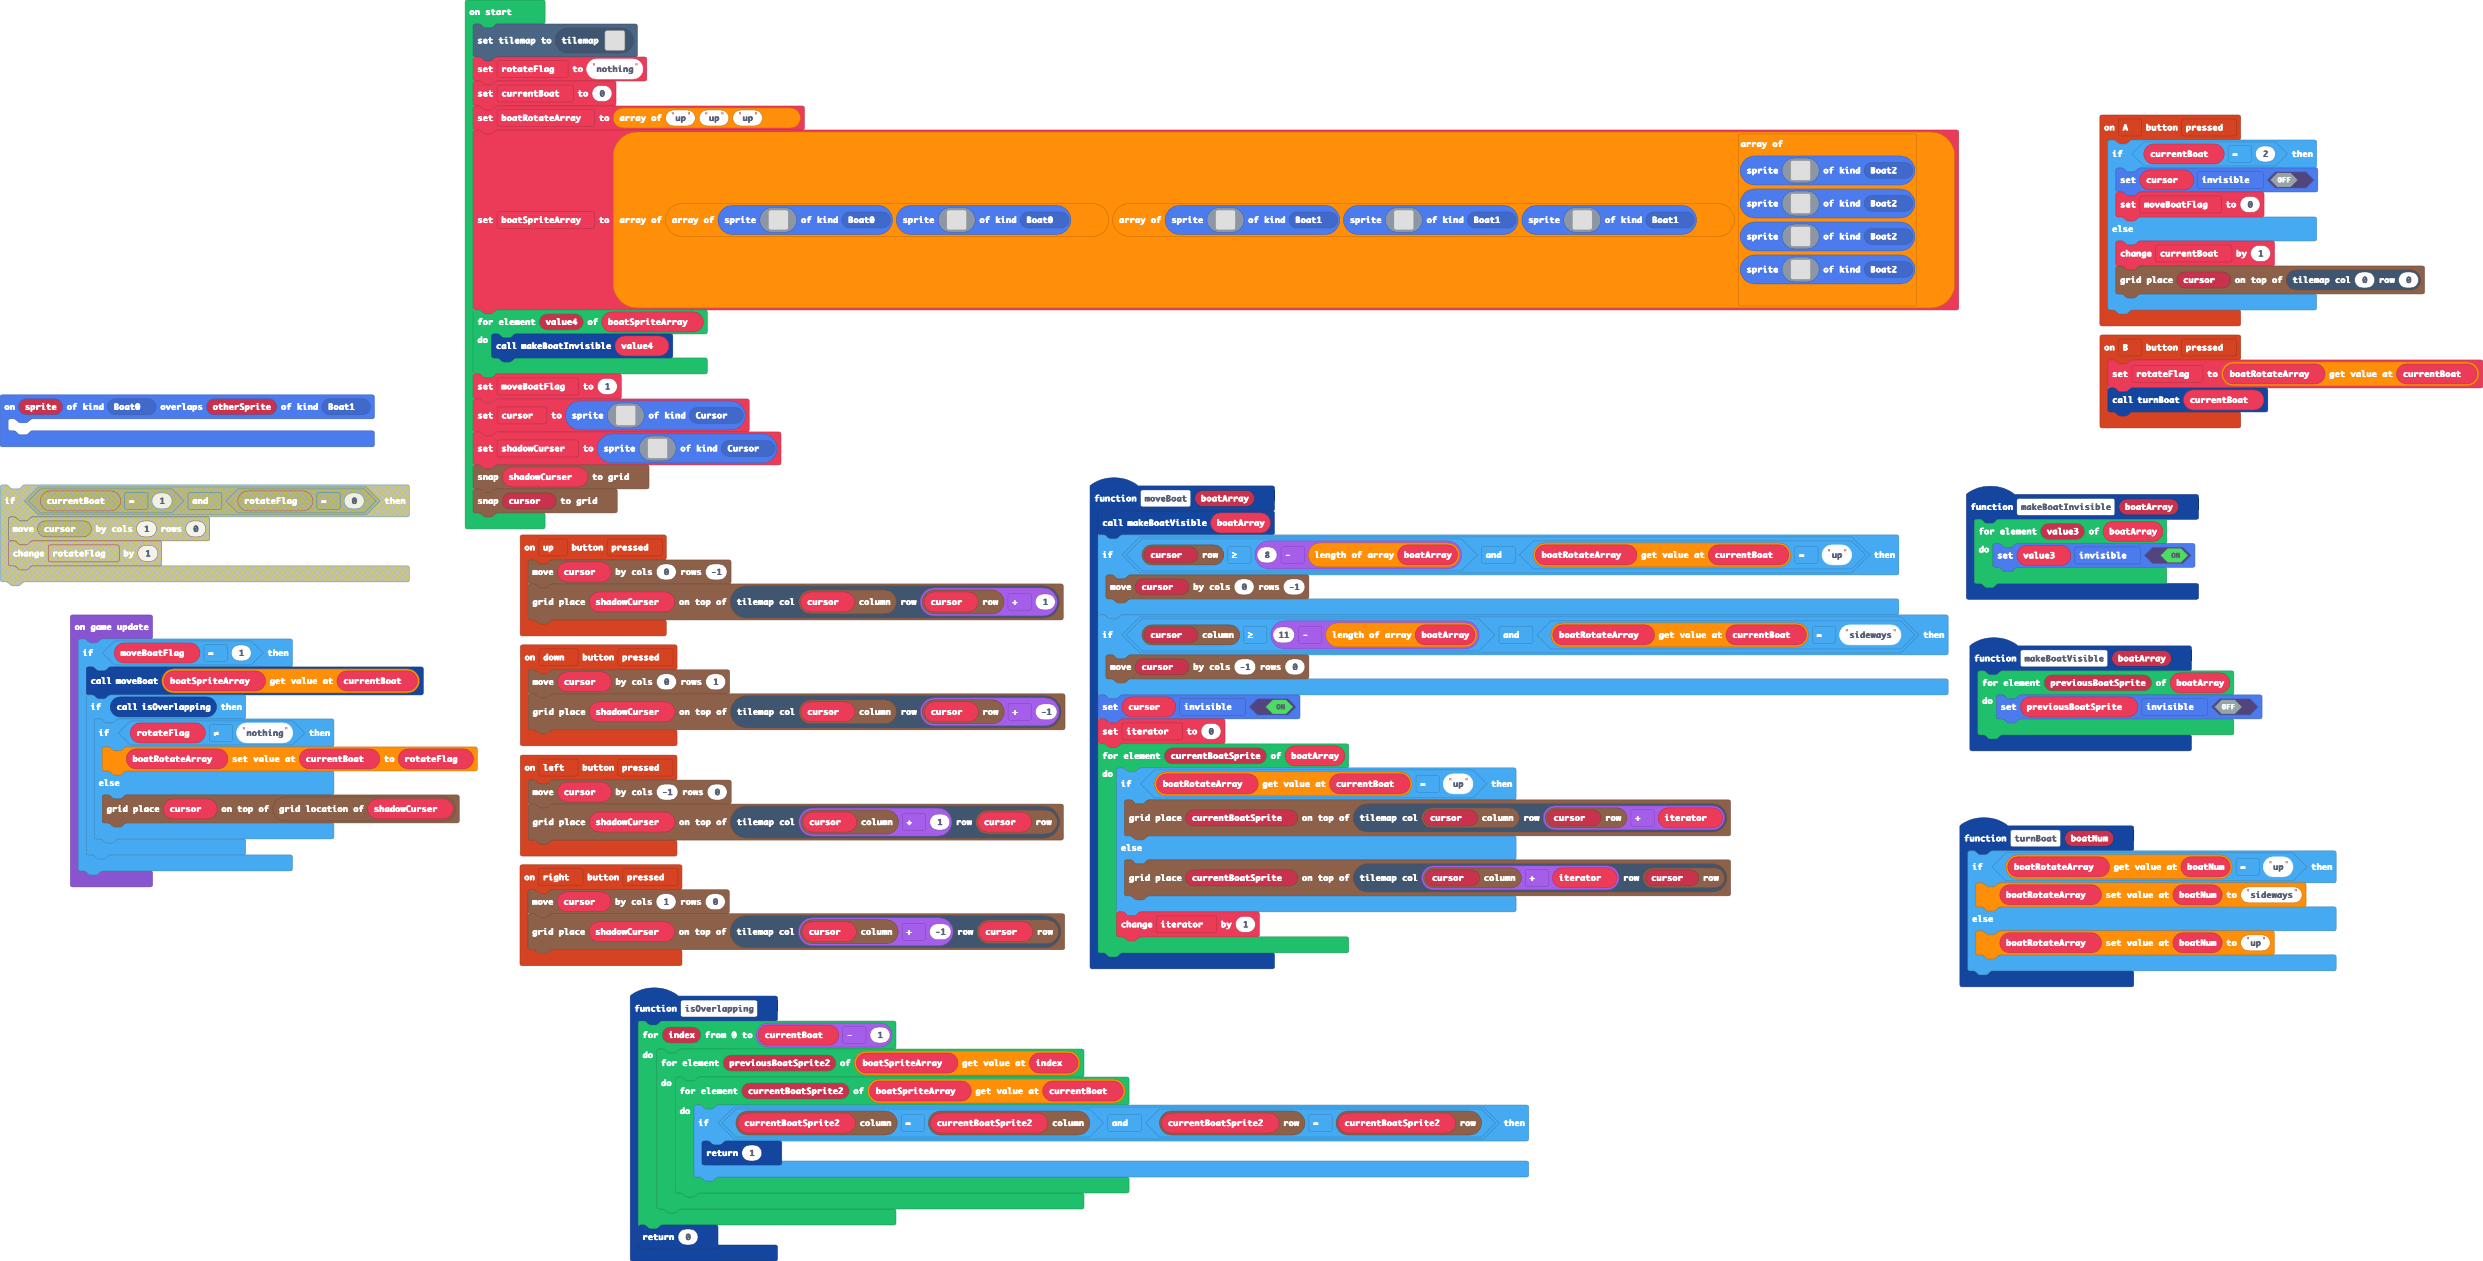
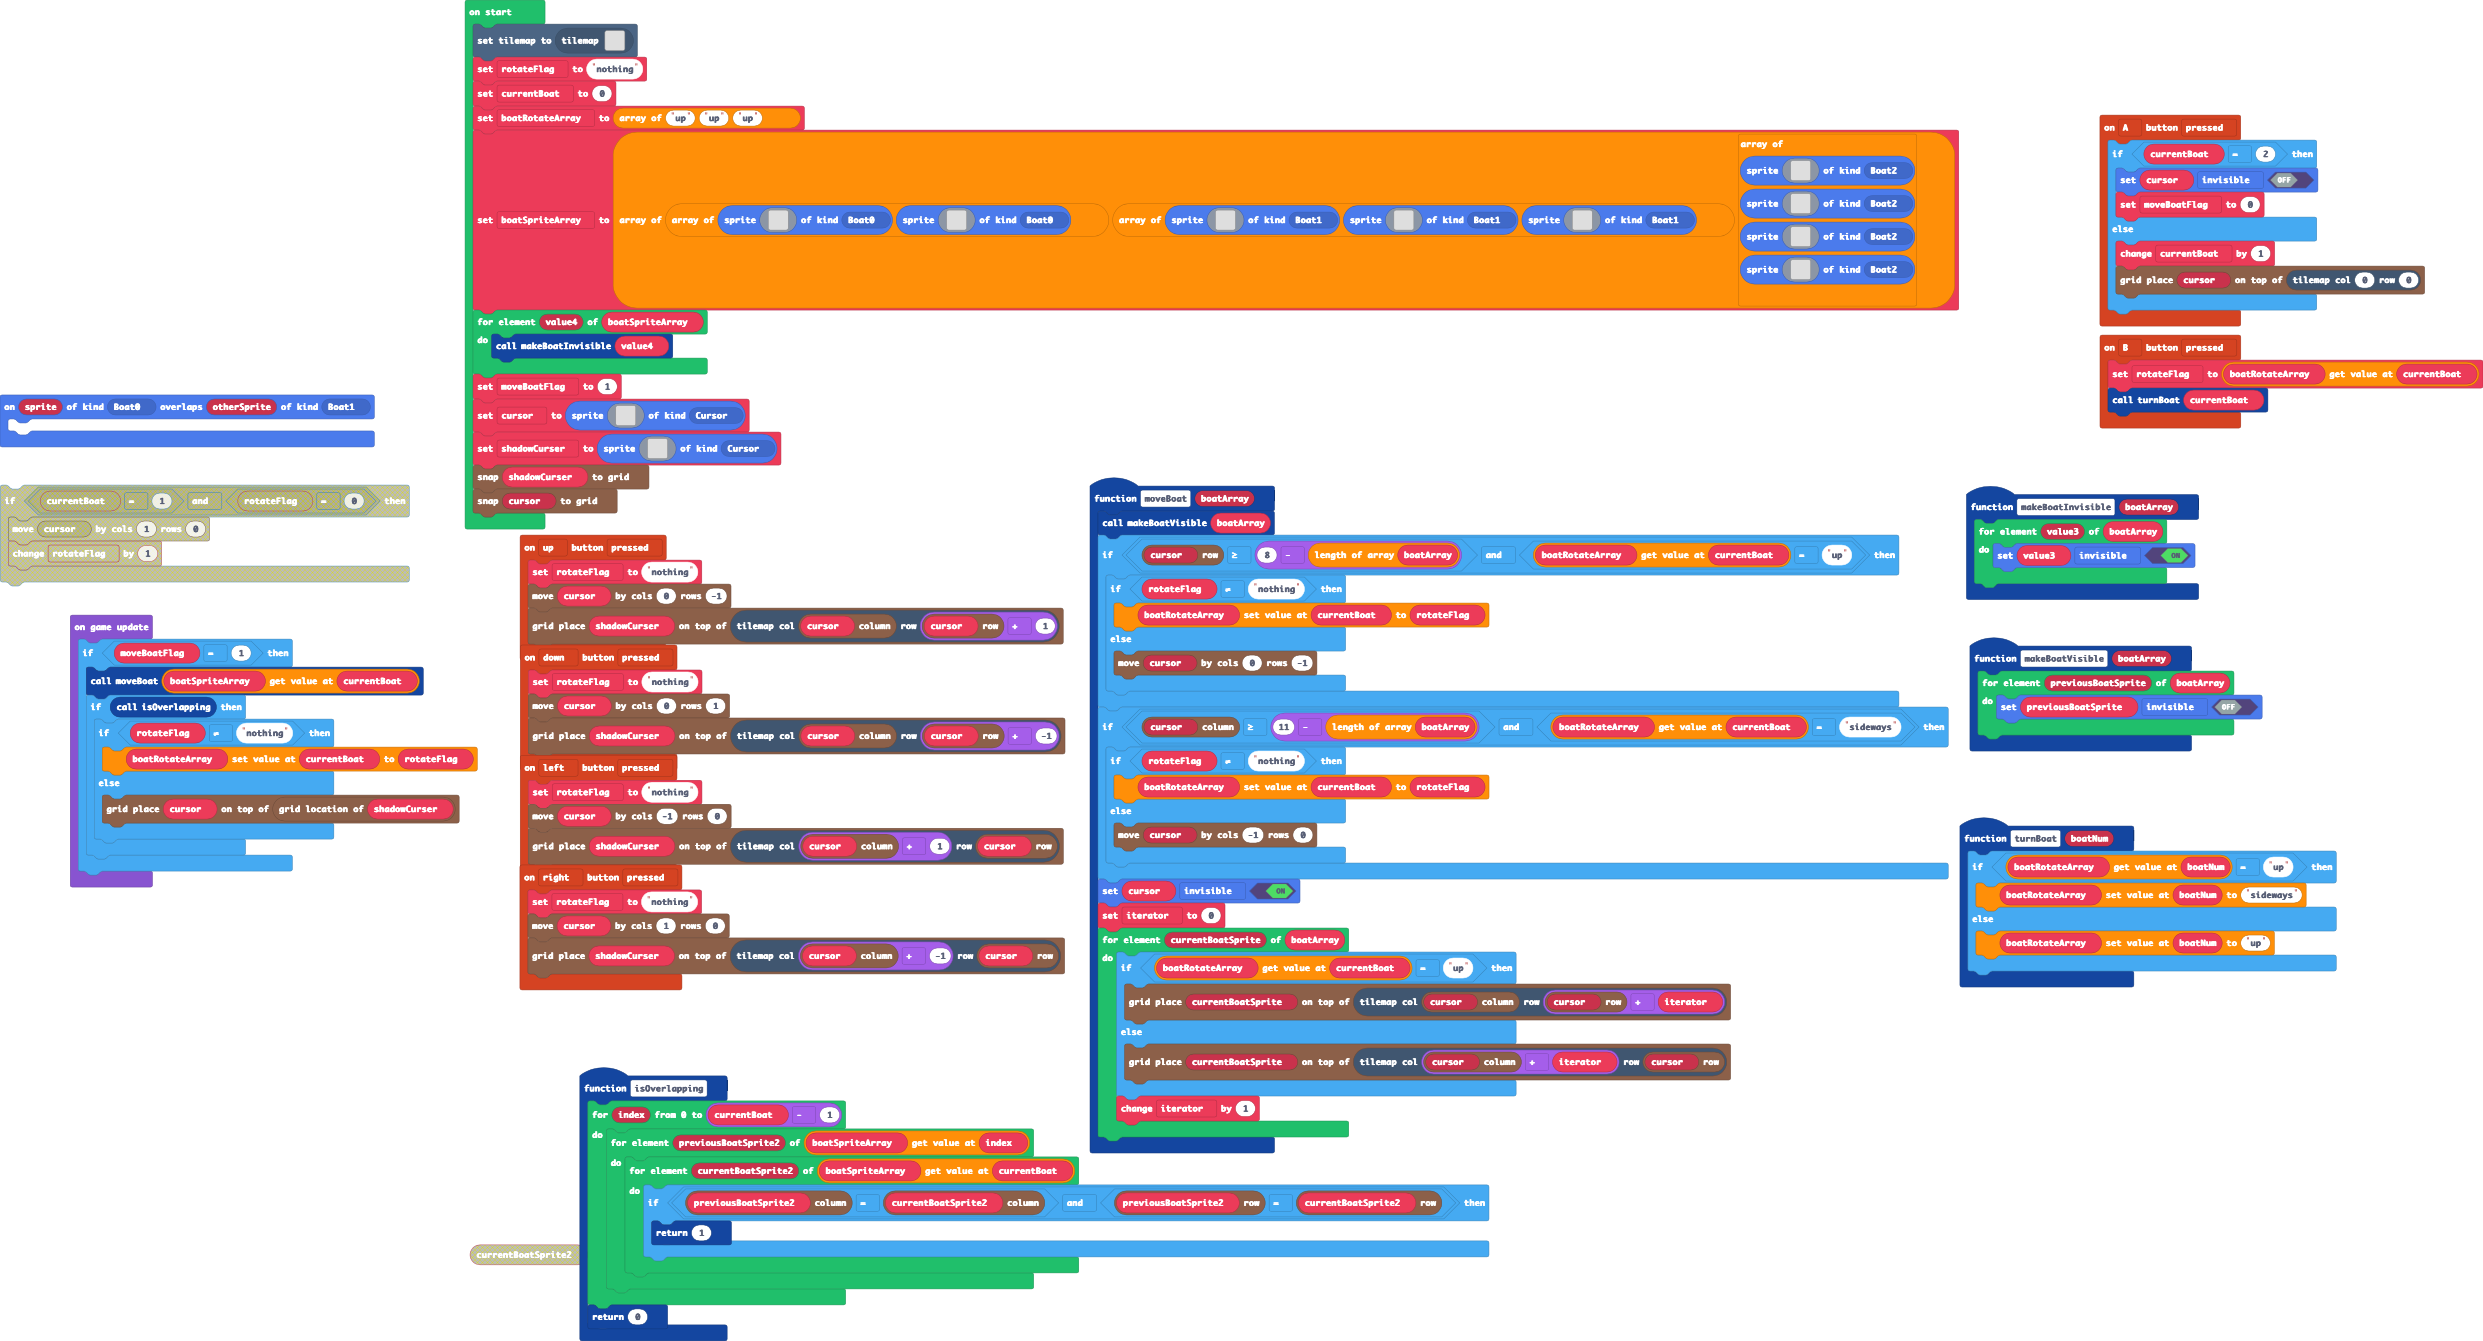
Fixed the overlapping bug

diff --git a/main.ts b/main.ts
@@ -5,6 +5,7 @@ namespace SpriteKind {
     export const Boat2 = SpriteKind.create()
 }
 controller.up.onEvent(ControllerButtonEvent.Pressed, function () {
+    rotateFlag = "nothing"
     grid.move(cursor, 0, -1)
     grid.place(shadowCurser, tiles.getTileLocation(grid.spriteCol(cursor), grid.spriteRow(cursor) + 1))
 })
@@ -30,20 +31,30 @@ controller.A.onEvent(ControllerButtonEvent.Pressed, function () {
     }
 })
 controller.left.onEvent(ControllerButtonEvent.Pressed, function () {
+    rotateFlag = "nothing"
     grid.move(cursor, -1, 0)
     grid.place(shadowCurser, tiles.getTileLocation(grid.spriteCol(cursor) + 1, grid.spriteRow(cursor)))
 })
 controller.right.onEvent(ControllerButtonEvent.Pressed, function () {
+    rotateFlag = "nothing"
     grid.move(cursor, 1, 0)
     grid.place(shadowCurser, tiles.getTileLocation(grid.spriteCol(cursor) + -1, grid.spriteRow(cursor)))
 })
 function moveBoat (boatArray: any[]) {
     makeBoatVisible(boatArray)
     if (grid.spriteRow(cursor) >= 8 - boatArray.length && boatRotateArray[currentBoat] == "up") {
-        grid.move(cursor, 0, -1)
+        if (rotateFlag != "nothing") {
+            boatRotateArray[currentBoat] = rotateFlag
+        } else {
+            grid.move(cursor, 0, -1)
+        }
     }
     if (grid.spriteCol(cursor) >= 11 - boatArray.length && boatRotateArray[currentBoat] == "sideways") {
-        grid.move(cursor, -1, 0)
+        if (rotateFlag != "nothing") {
+            boatRotateArray[currentBoat] = rotateFlag
+        } else {
+            grid.move(cursor, -1, 0)
+        }
     }
     cursor.setFlag(SpriteFlag.Invisible, true)
     iterator = 0
@@ -57,6 +68,7 @@ function moveBoat (boatArray: any[]) {
     }
 }
 controller.down.onEvent(ControllerButtonEvent.Pressed, function () {
+    rotateFlag = "nothing"
     grid.move(cursor, 0, 1)
     grid.place(shadowCurser, tiles.getTileLocation(grid.spriteCol(cursor), grid.spriteRow(cursor) + -1))
 })
@@ -76,7 +88,7 @@ function isOverlapping () {
     for (let index = 0; index <= currentBoat - 1; index++) {
         for (let previousBoatSprite2 of boatSpriteArray[index]) {
             for (let currentBoatSprite2 of boatSpriteArray[currentBoat]) {
-                if (grid.spriteCol(currentBoatSprite2) == grid.spriteCol(currentBoatSprite2) && grid.spriteRow(currentBoatSprite2) == grid.spriteRow(currentBoatSprite2)) {
+                if (grid.spriteCol(previousBoatSprite2) == grid.spriteCol(currentBoatSprite2) && grid.spriteRow(previousBoatSprite2) == grid.spriteRow(currentBoatSprite2)) {
                     return 1
                 }
             }
